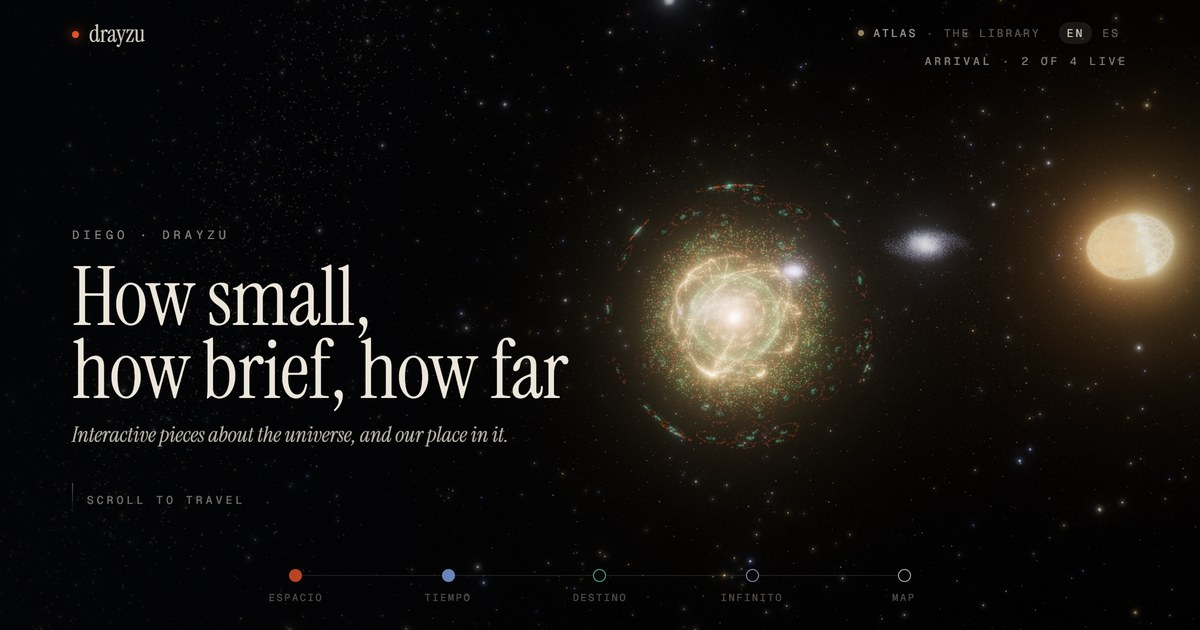
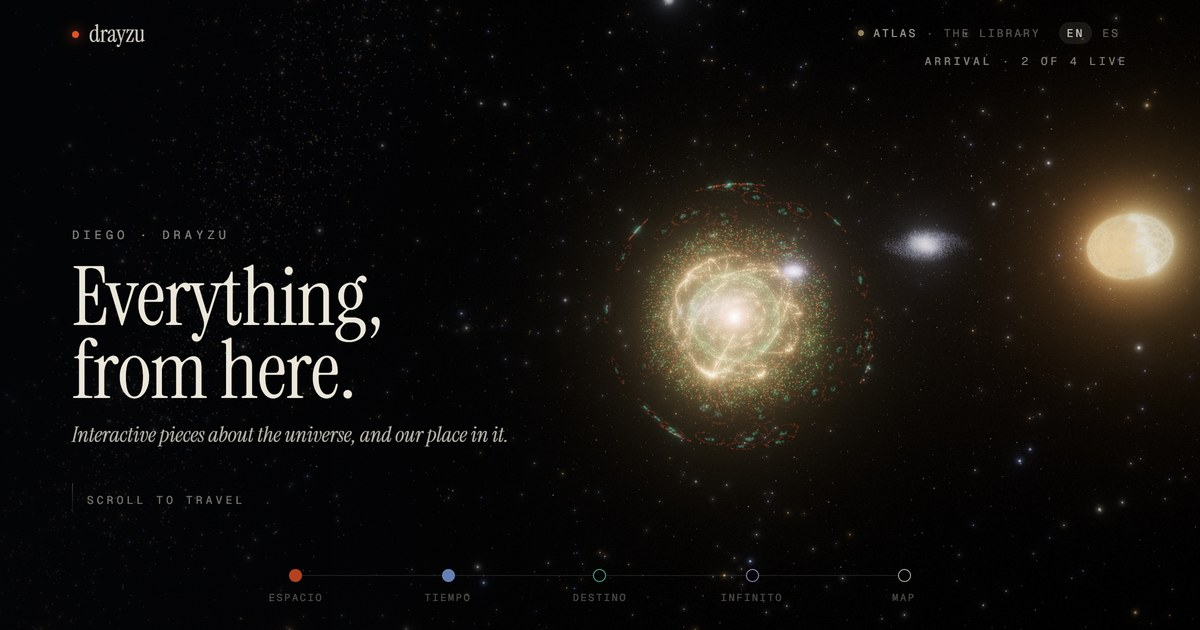
feat: open with «Todo, desde aquí» and name the series Horizontes
Map labels show each piece's question instead of its unit.

diff --git a/src/i18n.ts b/src/i18n.ts
@@ -4,10 +4,10 @@ const sup = (n: string) => `10<sup>${n}</sup>`;
 
 const T: Record<Lang, Record<string, string>> = {
   en: {
-    'intro.sub': 'A SERIES IN FOUR PIECES',
+    'intro.sub': 'HORIZONTES · A SERIES IN FOUR PIECES',
     'hud.live': '2 OF 4 LIVE',
     'hero.kick': 'DIEGO · DRAYZU',
-    'hero.title': 'How small,<br>how brief, how far',
+    'hero.title': 'Everything,<br>from here.',
     'hero.tag': 'Interactive pieces about the universe, and our place in it.',
     'hero.hint': 'SCROLL TO TRAVEL',
     'live': 'LIVE', 'forming': 'FORMING', 'enter': 'ENTER', 'progress': 'IN PROGRESS',
@@ -16,22 +16,22 @@ const T: Record<Lang, Record<string, string>> = {
     'pot.left': `${sup('−35')} m`, 'pot.right': `${sup('26')} m`,
     'time.axis': '02 · WHEN?', 'time.tag': 'From before the Big Bang to the last light.',
     'time.left': `${sup('−43')} s`, 'time.right': `${sup('100')} yr`,
-    'civ.axis': '03 · HOW FAR CAN WE GO?', 'civ.tag': 'Watch a civilization outgrow its planet.',
+    'civ.axis': '03 · HOW FAR?', 'civ.tag': 'Watch a civilization outgrow its planet.',
     'civ.left': 'K 0.7', 'civ.right': 'K III', 'civ.note': 'a galaxy, waiting to be lit',
-    'inf.axis': '04 · WHAT LIES BEYOND?', 'inf.tag': 'What no ruler can reach.',
+    'inf.axis': "04 · WHAT'S BEYOND?", 'inf.tag': 'What no ruler can reach.',
     'inf.left': '1', 'inf.right': '∞', 'inf.note': 'still taking shape',
     'map.kick': 'THE OBSERVER · 33.45° S',
     'map.tag': 'I make interactive pieces about the universe. This is the series so far.',
     'rail.map': 'Map',
     'stop.0': 'ARRIVAL', 'stop.5': 'THE MAP',
-    'lbl.pot': 'METRES · LIVE', 'lbl.astro': 'THE LIBRARY', 'lbl.time': 'YEARS · LIVE', 'lbl.civ': 'ENERGY · FORMING', 'lbl.inf': 'NUMBERS · FORMING',
+    'lbl.pot': 'WHERE? · LIVE', 'lbl.astro': 'THE LIBRARY', 'lbl.time': 'WHEN? · LIVE', 'lbl.civ': 'HOW FAR? · FORMING', 'lbl.inf': 'BEYOND? · FORMING',
     'nogl': 'Your browser cannot show the 3D journey, so here is the series as a list.',
   },
   es: {
-    'intro.sub': 'UNA SERIE EN CUATRO PIEZAS',
+    'intro.sub': 'HORIZONTES · UNA SERIE EN CUATRO PIEZAS',
     'hud.live': '2 DE 4 PUBLICADAS',
     'hero.kick': 'DIEGO · DRAYZU',
-    'hero.title': 'Lo pequeño,<br>lo breve, lo lejano',
+    'hero.title': 'Todo,<br>desde aquí.',
     'hero.tag': 'Piezas interactivas sobre el universo y nuestro lugar en él.',
     'hero.hint': 'DESLIZA PARA VIAJAR',
     'live': 'PUBLICADO', 'forming': 'EN FORMACIÓN', 'enter': 'ENTRAR', 'progress': 'EN PROGRESO',
@@ -40,7 +40,7 @@ const T: Record<Lang, Record<string, string>> = {
     'pot.left': `${sup('−35')} m`, 'pot.right': `${sup('26')} m`,
     'time.axis': '02 · ¿CUÁNDO?', 'time.tag': 'De antes del Big Bang a la última luz.',
     'time.left': `${sup('−43')} s`, 'time.right': `${sup('100')} años`,
-    'civ.axis': '03 · ¿ADÓNDE PODEMOS LLEGAR?', 'civ.tag': 'Una civilización que deja atrás su planeta.',
+    'civ.axis': '03 · ¿ADÓNDE?', 'civ.tag': 'Una civilización que deja atrás su planeta.',
     'civ.left': 'K 0,7', 'civ.right': 'K III', 'civ.note': 'una galaxia que espera encenderse',
     'inf.axis': '04 · ¿QUÉ HAY MÁS ALLÁ?', 'inf.tag': 'Lo que ninguna regla alcanza.',
     'inf.left': '1', 'inf.right': '∞', 'inf.note': 'aún sin forma',
@@ -48,7 +48,7 @@ const T: Record<Lang, Record<string, string>> = {
     'map.tag': 'Hago piezas interactivas sobre el universo. Esta es la serie hasta ahora.',
     'rail.map': 'Mapa',
     'stop.0': 'LLEGADA', 'stop.5': 'EL MAPA',
-    'lbl.pot': 'METROS · PUBLICADO', 'lbl.astro': 'LA BIBLIOTECA', 'lbl.time': 'AÑOS · PUBLICADO', 'lbl.civ': 'ENERGÍA · EN FORMACIÓN', 'lbl.inf': 'NÚMEROS · EN FORMACIÓN',
+    'lbl.pot': '¿DÓNDE? · PUBLICADO', 'lbl.astro': 'LA BIBLIOTECA', 'lbl.time': '¿CUÁNDO? · PUBLICADO', 'lbl.civ': '¿ADÓNDE? · EN FORMACIÓN', 'lbl.inf': '¿MÁS ALLÁ? · EN FORMACIÓN',
     'nogl': 'Tu navegador no puede mostrar el viaje en 3D, así que aquí está la serie como lista.',
   },
 };

diff --git a/index.html b/index.html
@@ -3,11 +3,11 @@
 <head>
   <meta charset="utf-8">
   <meta name="viewport" content="width=device-width, initial-scale=1">
-  <title>drayzu — How small, how brief, how far</title>
+  <title>drayzu — Everything, from here</title>
   <meta name="description" content="Interactive pieces about the universe by Diego (drayzu): Espacio, Tiempo, Destino and Infinito, and the Atlas, the library behind them.">
   <meta name="theme-color" content="#040507">
   <meta property="og:type" content="website">
-  <meta property="og:title" content="drayzu — How small, how brief, how far">
+  <meta property="og:title" content="drayzu — Everything, from here">
   <meta property="og:description" content="Interactive pieces about the universe, and our place in it.">
   <meta property="og:url" content="https://drayzu.github.io/">
   <meta property="og:image" content="https://drayzu.github.io/og.jpg">
@@ -25,7 +25,7 @@
   <div id="intro">
     <div class="dot"></div>
     <div class="word" aria-label="drayzu"></div>
-    <div class="sub" data-t="intro.sub">A SERIES IN FOUR PIECES</div>
+    <div class="sub" data-t="intro.sub">HORIZONTES · A SERIES IN FOUR PIECES</div>
   </div>
   <script>
     // runs before the 3D loads, so the name appears at once
@@ -45,7 +45,7 @@
   <main>
     <section class="panel hero" data-stop="0">
       <p class="kick" data-t="hero.kick">DIEGO · DRAYZU</p>
-      <h1 data-t="hero.title">How small,<br>how brief, how far</h1>
+      <h1 data-t="hero.title">Everything,<br>from here.</h1>
       <p class="tag" data-t="hero.tag">Interactive pieces about the universe, and our place in it.</p>
       <p class="hint"><i></i><span data-t="hero.hint">SCROLL TO TRAVEL</span></p>
     </section>
